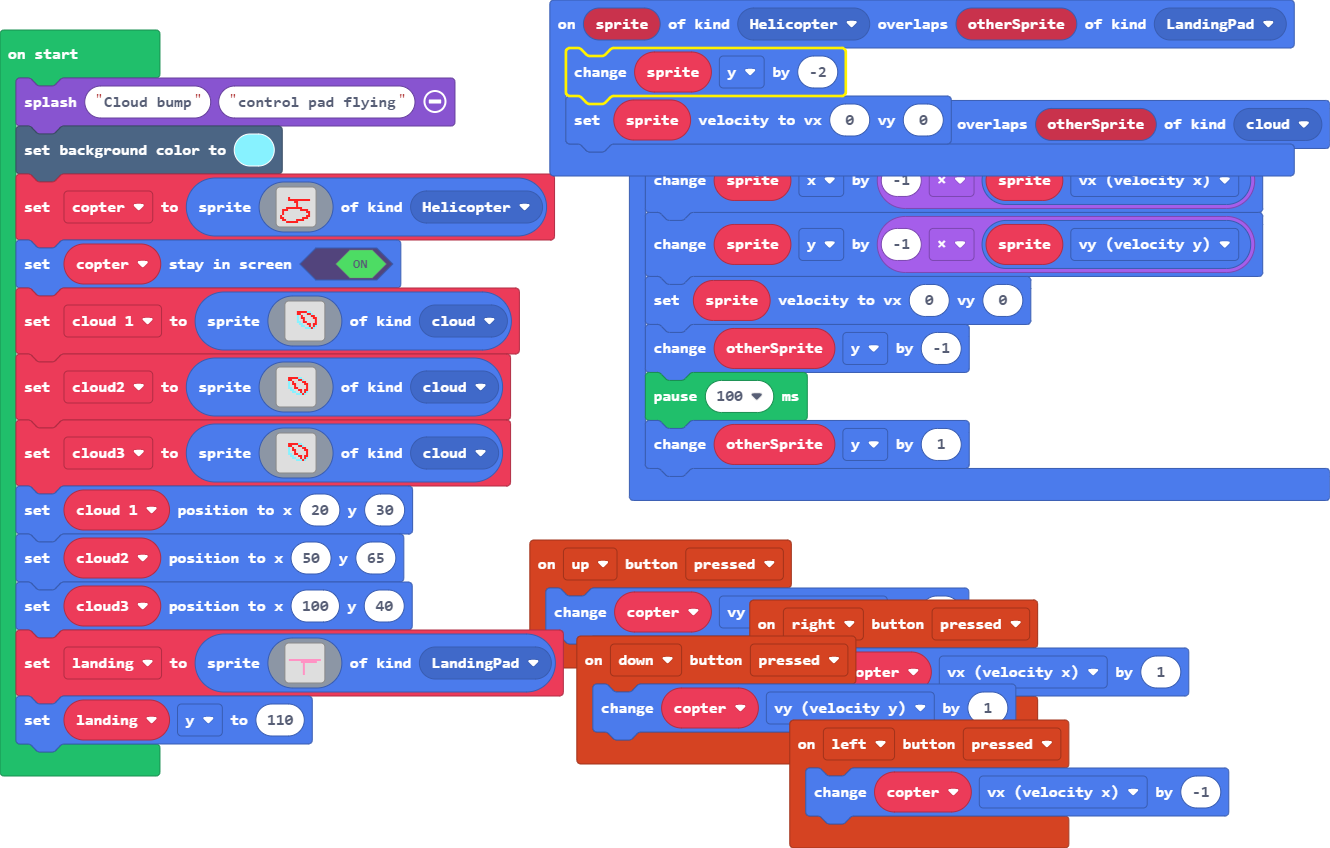
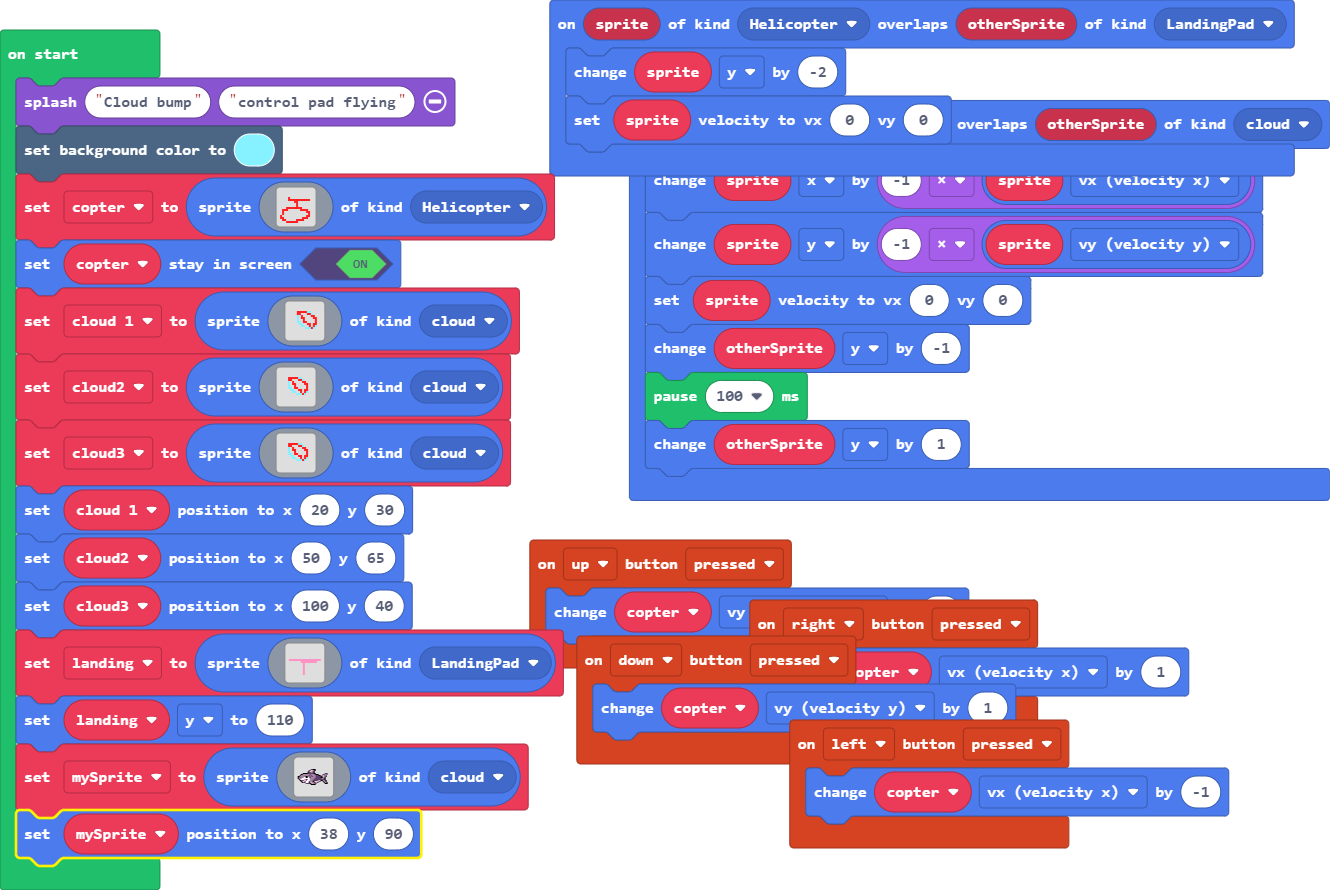
added shark

diff --git a/main.ts b/main.ts
@@ -125,3 +125,22 @@ let landing = sprites.create(img`
     . . . . . . . . . . . . . . . . 
     `, SpriteKind.LandingPad)
 landing.y = 110
+let mySprite = sprites.create(img`
+    .............ccfff..............
+    ...........ccddbcf..............
+    ..........ccddbbf...............
+    ..........fccbbcf...............
+    .....fffffccccccff.........ccc..
+    ...ffbbbbbbbcbbbbcfff....ccbbc..
+    ..fbbbbbbbbcbcbbbbcccff.cdbbc...
+    ffbbbbbbffbbcbcbbbcccccfcdbbf...
+    fbcbbb11ff1bcbbbbbcccccffbbf....
+    fbbb11111111bbbbbcccccccbbcf....
+    .fb11133cc11bbbbcccccccccccf....
+    ..fccc31c111bbbcccccbdbffbbcf...
+    ...fc13c111cbbbfcddddcc..fbbf...
+    ....fccc111fbdbbccdcc.....fbbf..
+    ........ccccfcdbbcc........fff..
+    .............fffff..............
+    `, SpriteKind.cloud)
+mySprite.setPosition(38, 90)
